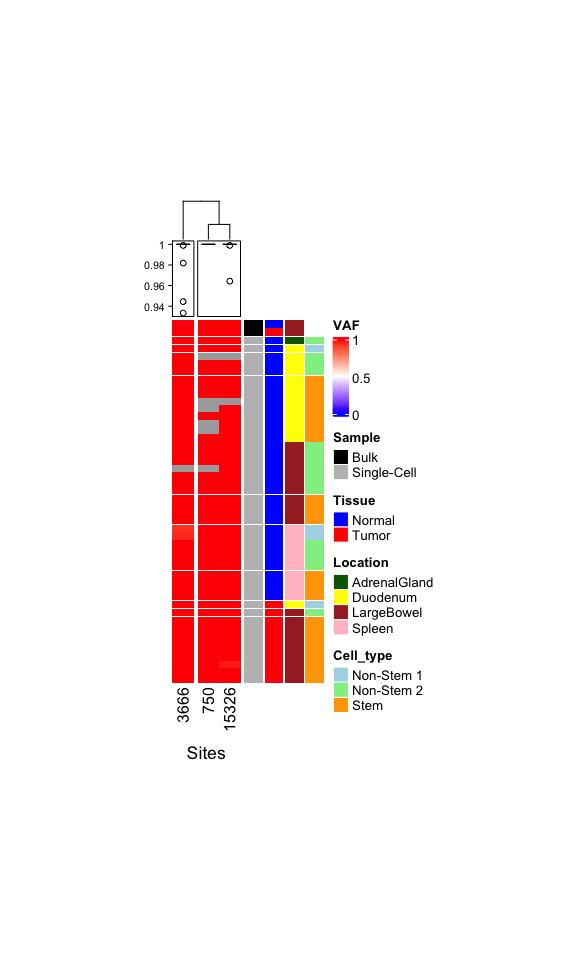
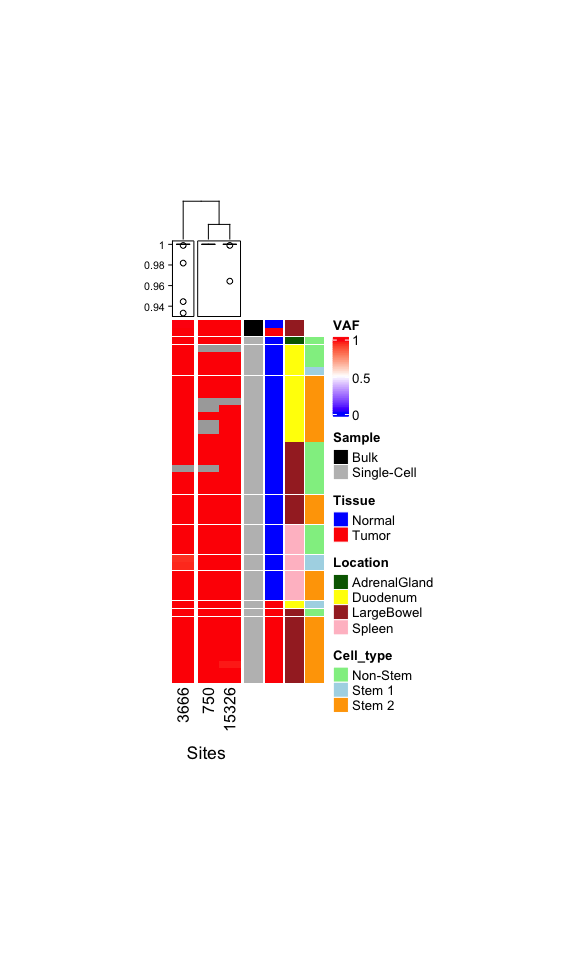
Modify labesls and colors in CRC01

diff --git a/reports/CRC01.md b/reports/CRC01.md
@@ -24,7 +24,7 @@ popdata <- read.table(here::here("data/CRC01_group_FIXED_noLgr5.list"), h=T, sep
 color_anno = list( Sample = c("Bulk"="black", "Single-Cell"="grey"), #Change as needed
                    Tissue = c("Tumor"="red", "Normal"="blue"),
                    Location = c("LargeBowel"="brown", "Spleen"="pink", "Duodenum"="yellow", "AdrenalGland"="darkgreen"),
-                   Cell_type = c("Non-Stem 1"="lightblue", "Non-Stem 2"="lightgreen", "Stem"="orange", "ND"="white")
+                   Cell_type = c("Stem 1"="lightblue", "Non-Stem"="lightgreen", "Stem 2"="orange", "ND"="white")
 )
 
 ha1 <- rowAnnotation(df = popdata[,-1], col = color_anno, show_annotation_name = F, na_col = "white")
